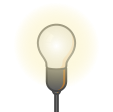
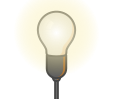
shorten lightbulb image so it doesn't overlap dropdown
It was overlapping the dropdown so the bottom half couldn't be clicked on

diff --git a/src/plugins/dataflow/nodes/controls/demo-output-control.scss b/src/plugins/dataflow/nodes/controls/demo-output-control.scss
@@ -14,9 +14,9 @@
 
   .lightbulb-image {
     width: 113px;
-    height: 112px;
+    height: 99px;
     left: 0;
-    top: -13px;
+    top: 0;
   }
 }
 
